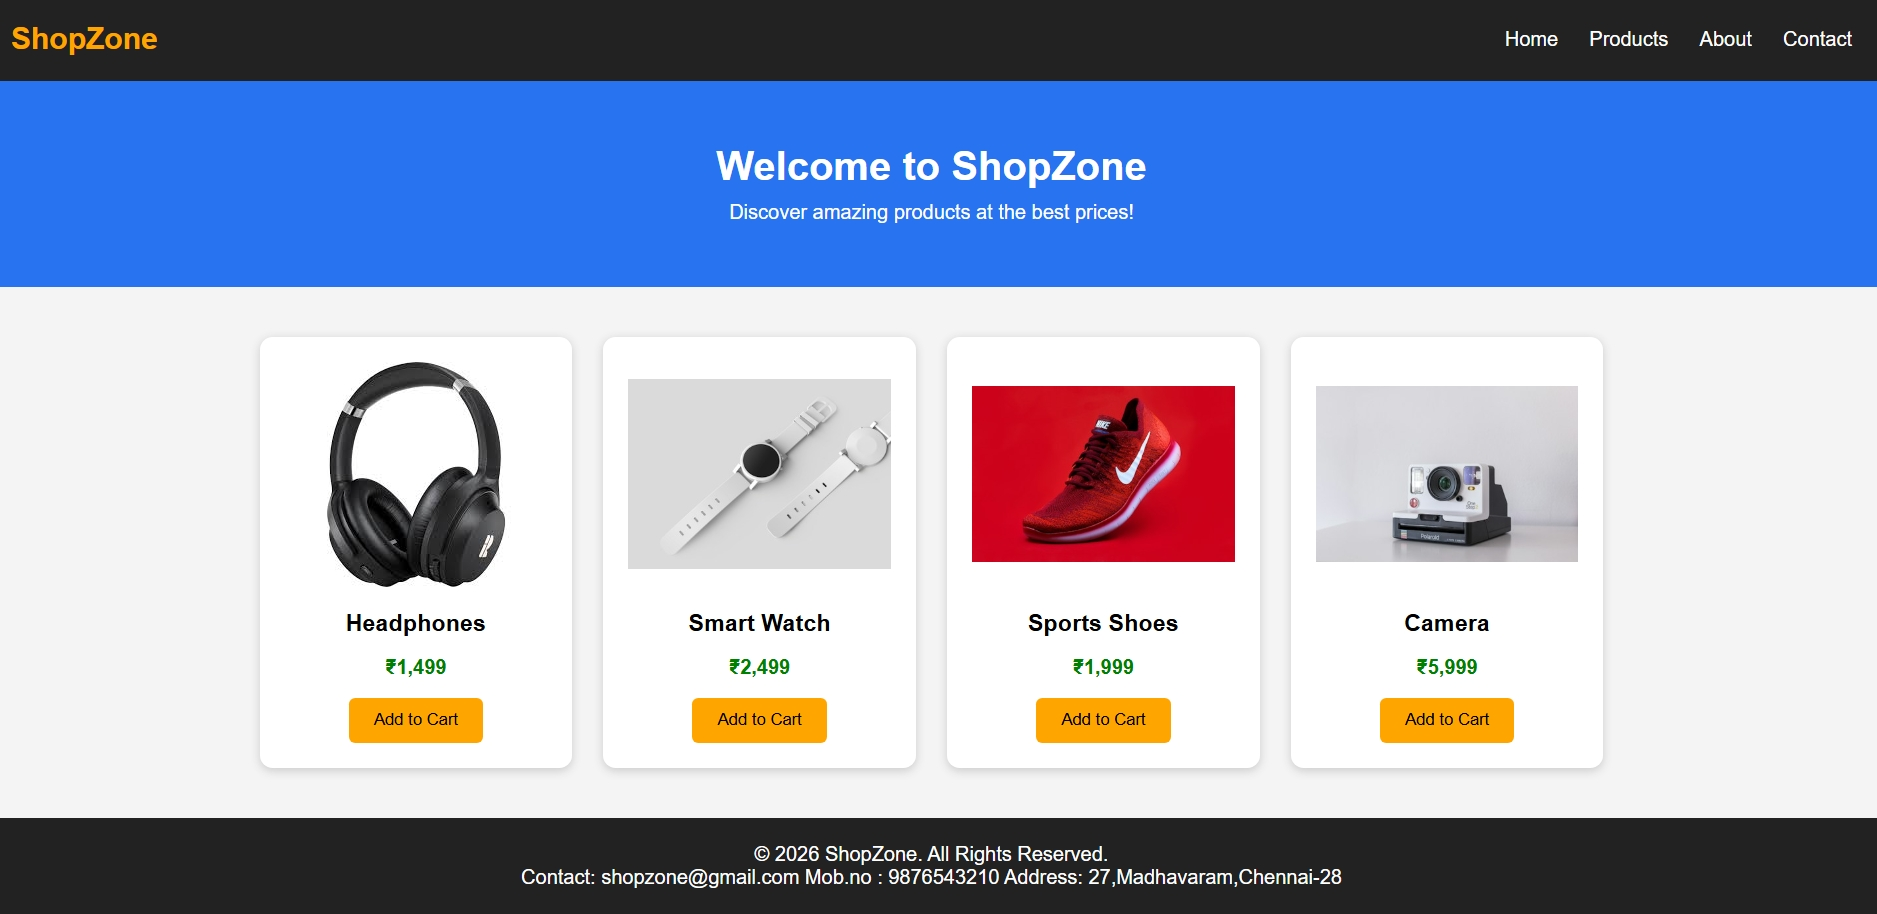
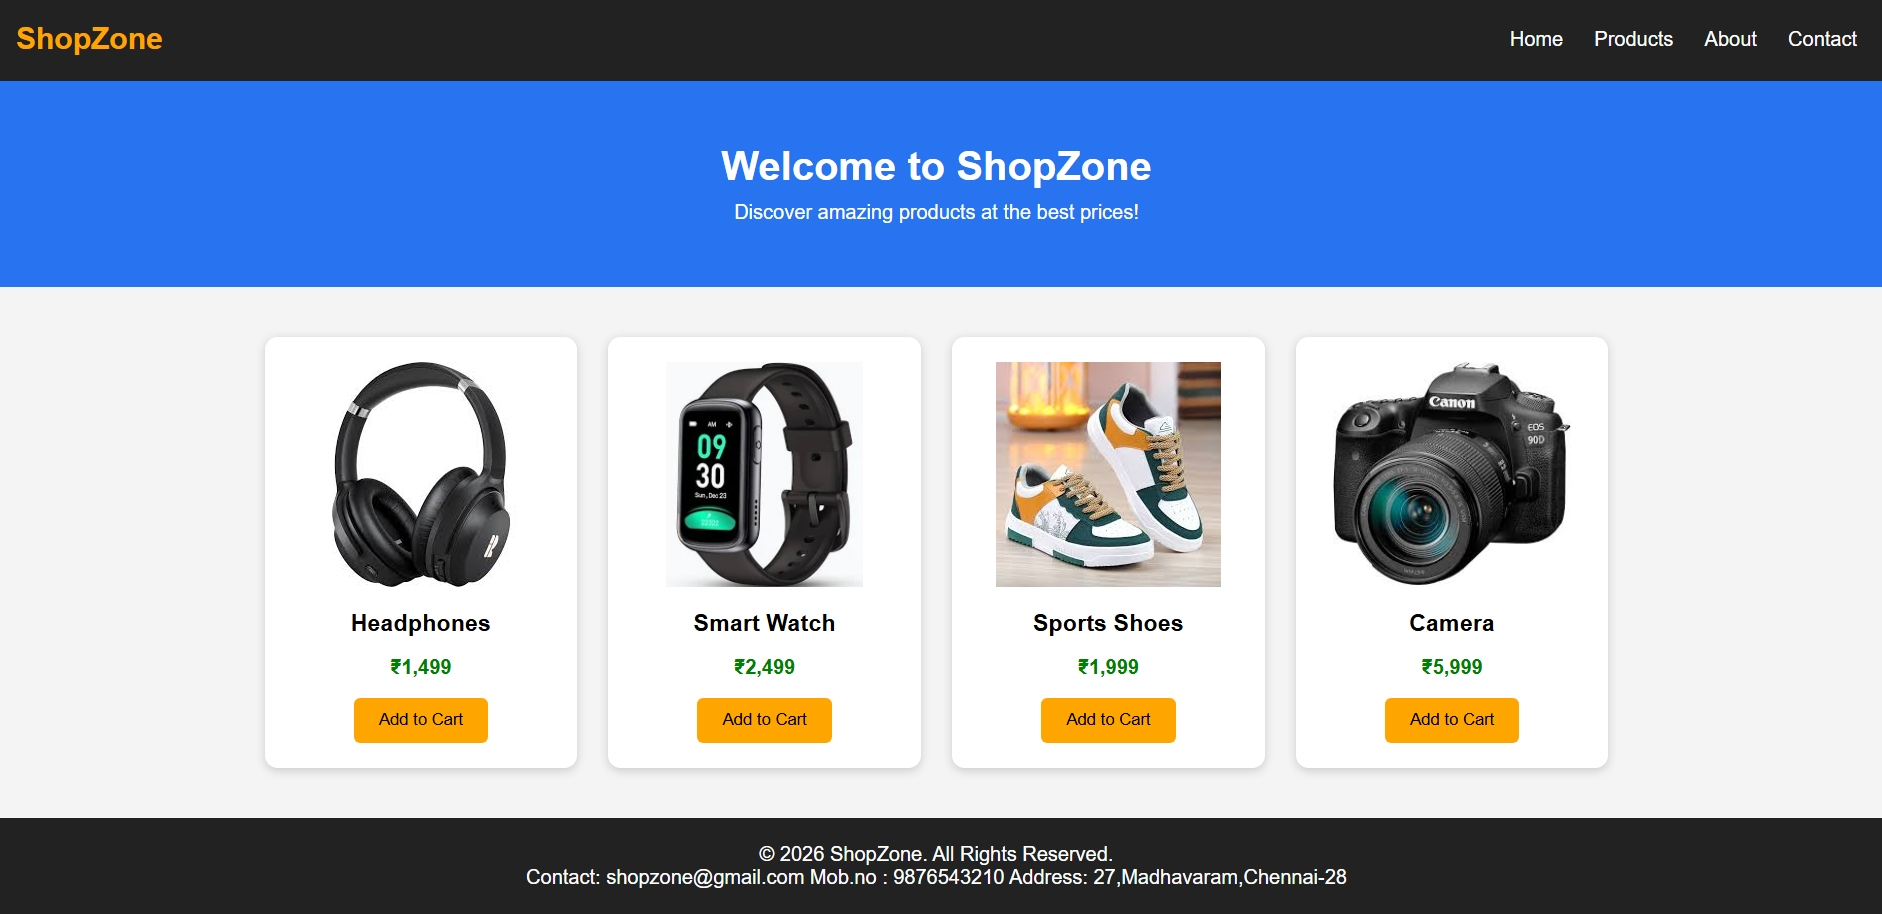
Success

diff --git a/exp.html b/exp.html
@@ -156,28 +156,28 @@
     <section class="products" id="products">
 
         <div class="product">
-            <img src="headphone.jpeg" alt="Headphones">
+            <img src="img/headphone.jpeg" alt="Headphones">
             <h3>Headphones</h3>
             <p>₹1,499</p>
             <button onclick="addToCart()">Add to Cart</button>
         </div>
 
         <div class="product">
-            <img src="https://images.unsplash.com/photo-1523275335684-37898b6baf30?w=400" alt="Watch">
+            <img src="img/watch.jpeg" alt="Watch">
             <h3>Smart Watch</h3>
             <p>₹2,499</p>
             <button onclick="addToCart()">Add to Cart</button>
         </div>
 
         <div class="product">
-            <img src="https://images.unsplash.com/photo-1542291026-7eec264c27ff?w=400" alt="Shoes">
+            <img src="img/shoes.jpeg" alt="Shoes">
             <h3>Sports Shoes</h3>
             <p>₹1,999</p>
             <button onclick="addToCart()">Add to Cart</button>
         </div>
 
         <div class="product">
-            <img src="https://images.unsplash.com/photo-1526170375885-4d8ecf77b99f?w=400" alt="Camera">
+            <img src="img/camera.jpeg" alt="Camera">
             <h3>Camera</h3>
             <p>₹5,999</p>
             <button onclick="addToCart()">Add to Cart</button>

diff --git a/README.md b/README.md
@@ -54,6 +54,7 @@ Upload to GitHub Pages for free hosting.
 ## PROGRAM
 ```
 
+
 <!DOCTYPE html>
 <html>
 <head>
@@ -211,28 +212,28 @@ Upload to GitHub Pages for free hosting.
     <section class="products" id="products">
 
         <div class="product">
-            <img src="headphone.jpeg" alt="Headphones">
+            <img src="img/headphone.jpeg" alt="Headphones">
             <h3>Headphones</h3>
             <p>₹1,499</p>
             <button onclick="addToCart()">Add to Cart</button>
         </div>
 
         <div class="product">
-            <img src="https://images.unsplash.com/photo-1523275335684-37898b6baf30?w=400" alt="Watch">
+            <img src="img/watch.jpeg" alt="Watch">
             <h3>Smart Watch</h3>
             <p>₹2,499</p>
             <button onclick="addToCart()">Add to Cart</button>
         </div>
 
         <div class="product">
-            <img src="https://images.unsplash.com/photo-1542291026-7eec264c27ff?w=400" alt="Shoes">
+            <img src="img/shoes.jpeg" alt="Shoes">
             <h3>Sports Shoes</h3>
             <p>₹1,999</p>
             <button onclick="addToCart()">Add to Cart</button>
         </div>
 
         <div class="product">
-            <img src="https://images.unsplash.com/photo-1526170375885-4d8ecf77b99f?w=400" alt="Camera">
+            <img src="img/camera.jpeg" alt="Camera">
             <h3>Camera</h3>
             <p>₹5,999</p>
             <button onclick="addToCart()">Add to Cart</button>
@@ -257,6 +258,7 @@ Upload to GitHub Pages for free hosting.
 
 </body>
 </html>
+
 
 ```
 
